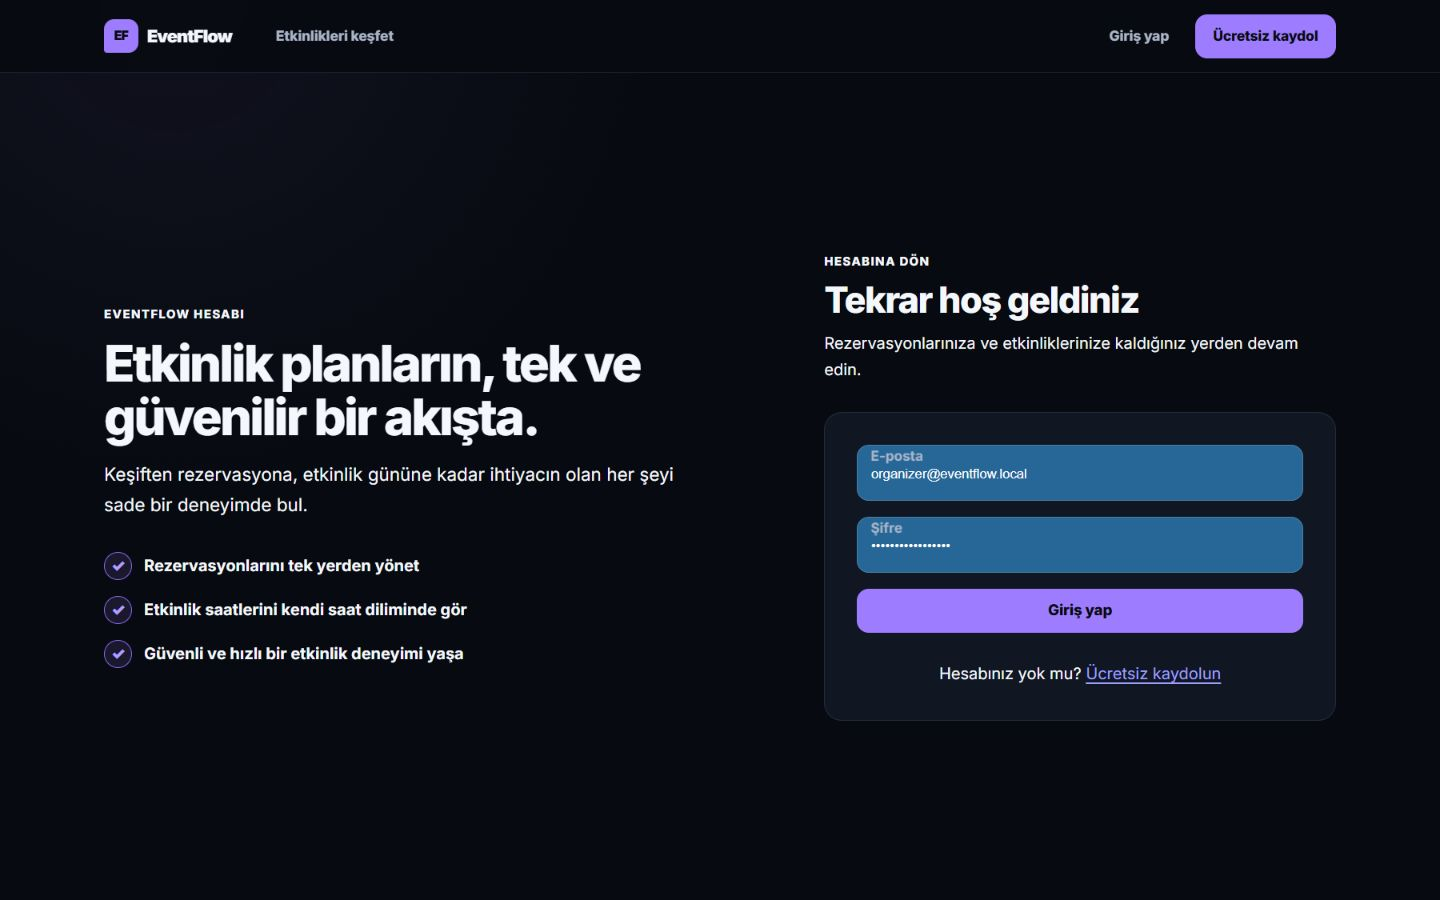
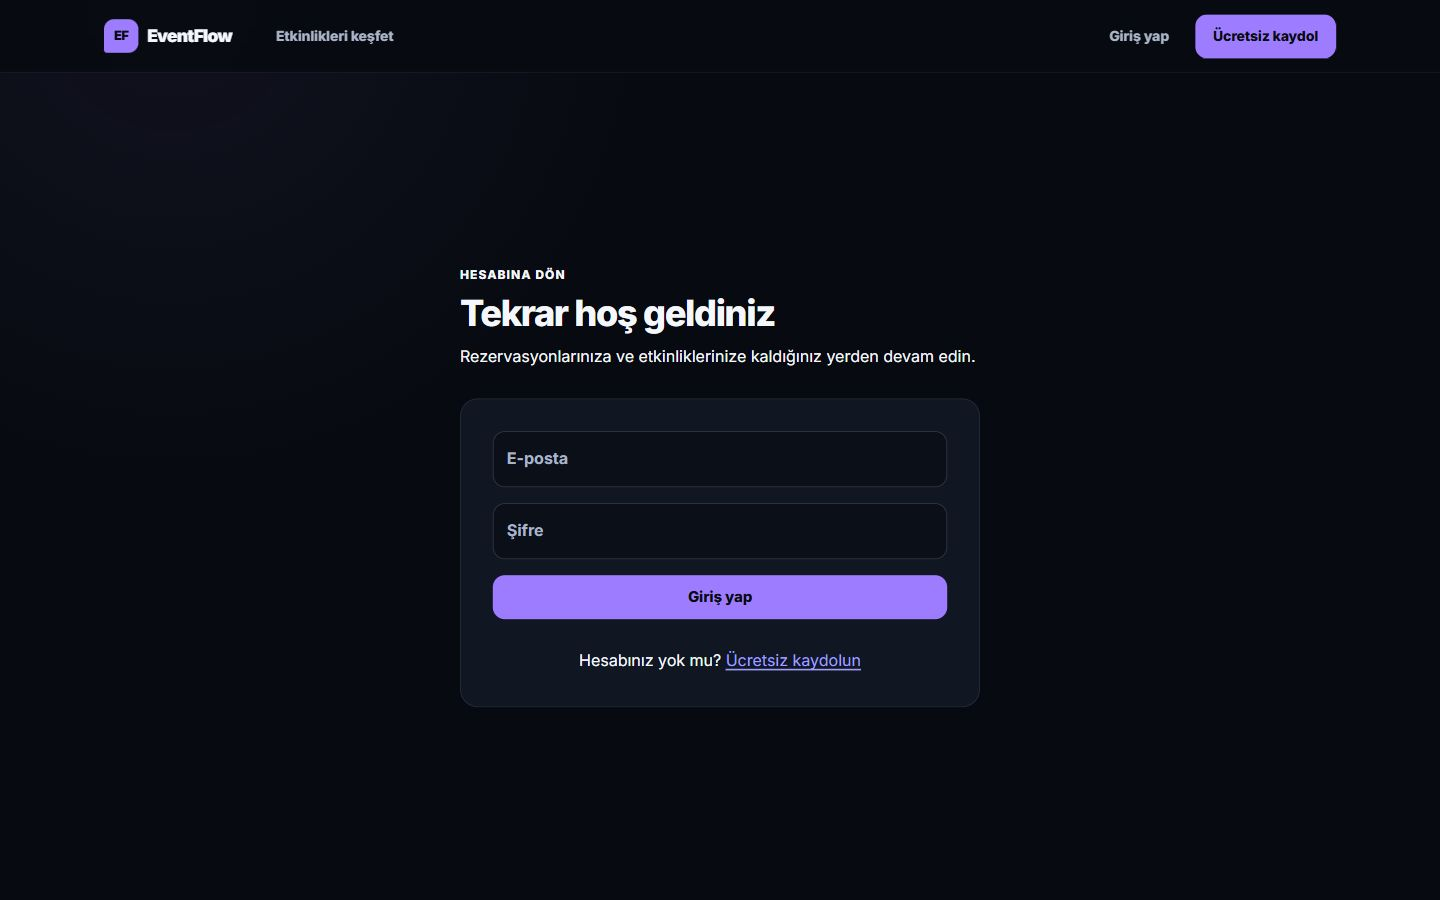
fix(ui): simplify authentication layout

Changed region(s): [[0.0625, 0.28, 0.9062, 0.7778], [0.8438, 0.0311, 0.9062, 0.0622], [0.0938, 0.0311, 0.1562, 0.0622]]

diff --git a/frontend/src/features/auth/AuthFormLayout.tsx b/frontend/src/features/auth/AuthFormLayout.tsx
@@ -1,15 +1,9 @@
 import { Link } from '@tanstack/react-router'
-import { Box, Container, Stack, Typography } from '@mui/material'
+import { Box, Container, Typography } from '@mui/material'
 import type { PropsWithChildren } from 'react'
 
 import { designTokens } from '../../app/theme'
 import { Surface } from '../../shared/ui/Surface'
-
-const benefits = [
-  'Rezervasyonlarını tek yerden yönet',
-  'Etkinlik saatlerini kendi saat diliminde gör',
-  'Güvenli ve hızlı bir etkinlik deneyimi yaşa',
-]
 
 export function AuthFormLayout({
   title,
@@ -32,69 +26,13 @@ export function AuthFormLayout({
     >
       <Box
         sx={{
-          display: 'grid',
-          gap: { xs: 4, lg: 8 },
-          gridTemplateColumns: {
-            xs: '1fr',
-            lg: 'minmax(0, 1fr) minmax(420px, 0.78fr)',
-          },
+          alignItems: 'center',
+          display: 'flex',
+          justifyContent: 'center',
           minHeight: { lg: 'calc(100vh - 190px)' },
         }}
       >
-        <Stack
-          sx={{
-            alignSelf: 'center',
-            display: { xs: 'none', lg: 'flex' },
-            gap: 4,
-            maxWidth: 600,
-          }}
-        >
-          <Box>
-            <Typography color="primary.light" variant="overline">
-              EVENTFLOW HESABI
-            </Typography>
-            <Typography component="p" variant="h2" sx={{ mt: 1.25 }}>
-              Etkinlik planların, tek ve güvenilir bir akışta.
-            </Typography>
-            <Typography color="text.secondary" sx={{ fontSize: 18, mt: 2 }}>
-              Keşiften rezervasyona, etkinlik gününe kadar ihtiyacın olan her
-              şeyi sade bir deneyimde bul.
-            </Typography>
-          </Box>
-          <Stack component="ul" sx={{ gap: 2, listStyle: 'none', m: 0, p: 0 }}>
-            {benefits.map((benefit) => (
-              <Stack
-                component="li"
-                direction="row"
-                key={benefit}
-                sx={{ alignItems: 'center', gap: 1.5 }}
-              >
-                <Box
-                  aria-hidden="true"
-                  sx={{
-                    alignItems: 'center',
-                    bgcolor: 'action.selected',
-                    border: '1px solid',
-                    borderColor: 'primary.dark',
-                    borderRadius: 999,
-                    color: 'primary.light',
-                    display: 'inline-flex',
-                    flexShrink: 0,
-                    fontWeight: 900,
-                    height: 28,
-                    justifyContent: 'center',
-                    width: 28,
-                  }}
-                >
-                  ✓
-                </Box>
-                <Typography sx={{ fontWeight: 680 }}>{benefit}</Typography>
-              </Stack>
-            ))}
-          </Stack>
-        </Stack>
-
-        <Box sx={{ alignSelf: 'center', width: '100%' }}>
+        <Box sx={{ width: '100%', maxWidth: 520 }}>
           <Box sx={{ mb: 3.5 }}>
             <Typography color="primary.light" variant="overline">
               {footer === 'login' ? 'HESABINA DÖN' : 'YENİ HESAP'}
